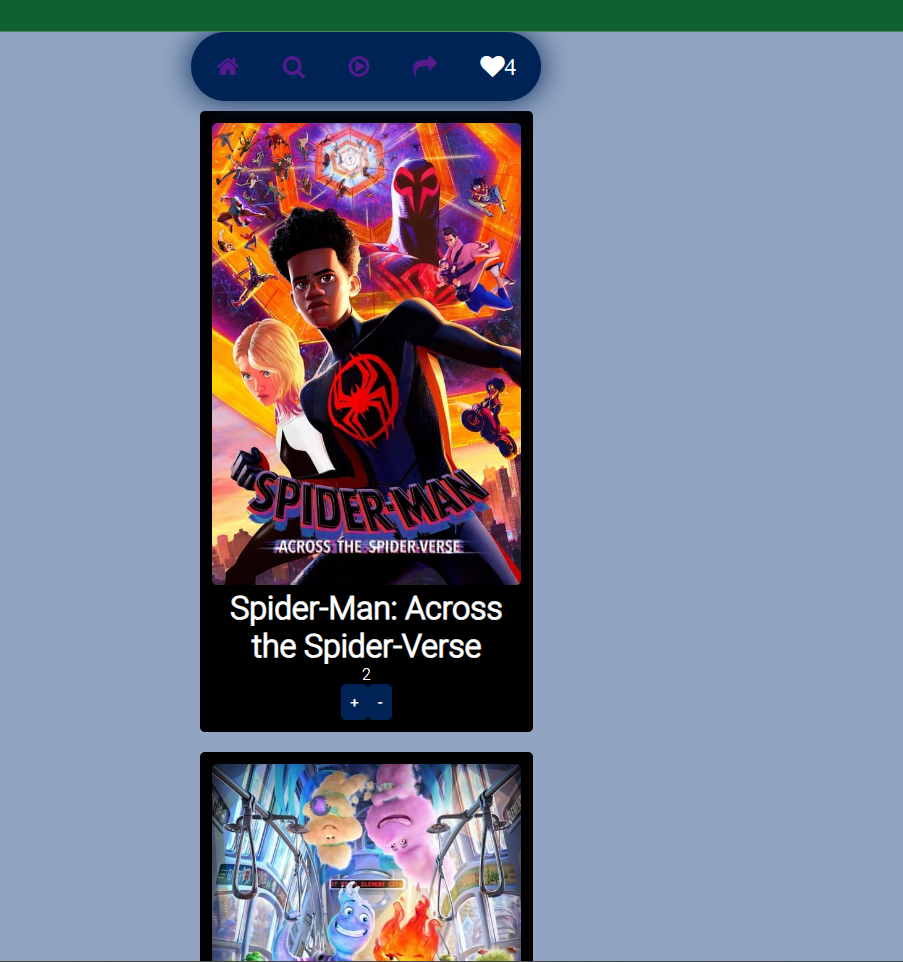
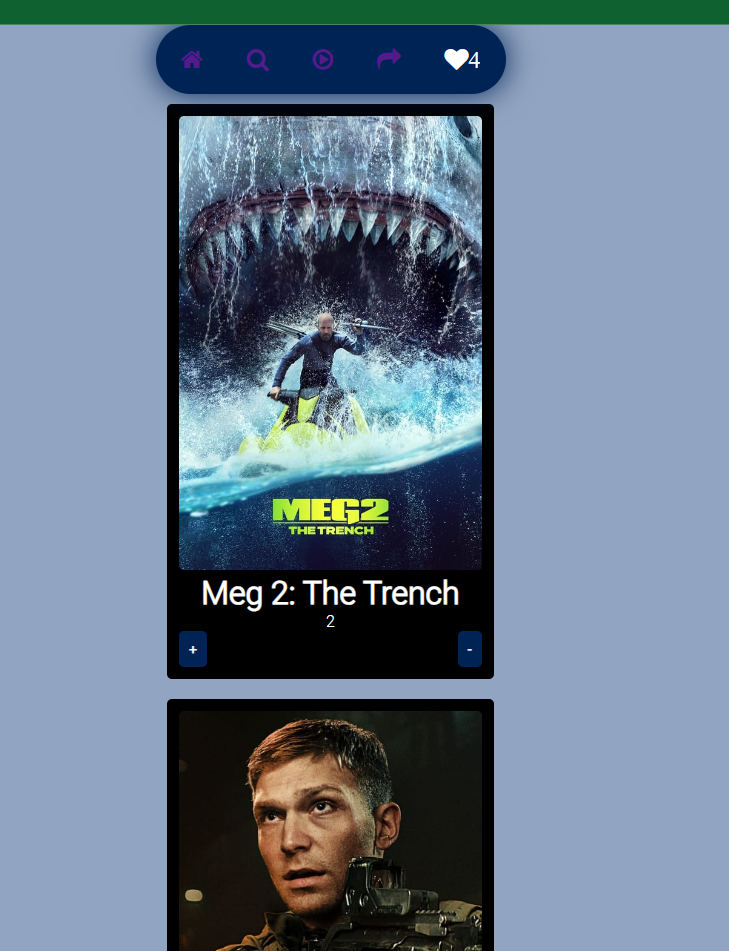
change some styling and remove some comments

diff --git a/day5-part2/src/Components/Nav/Nav.js b/day5-part2/src/Components/Nav/Nav.js
@@ -4,29 +4,29 @@ import { NavLink } from "react-router-dom";
 
 function Navigation() {
 var countFavourite=useSelector((state)=>state.AddFavSlice.AddedFav)
-var CartShow=useSelector((state)=>state.AddFavSlice.cart)
-    function clicked() {
-      console.log('clicked');
-      console.log(CartShow);
-      
-}
+// var CartShow=useSelector((state)=>state.AddFavSlice.cart)
+//     function clicked() {
+//       console.log('clicked');
+//       console.log(CartShow);
+
+// }
   return (
     <nav>
       <ul>
         <NavLink to='Home'>
-          <i className={`fa fa-home active`} onClick={clicked}></i>
+          <i className={`fa fa-home active`} ></i>
         </NavLink>
         <NavLink>
-          <i className={`fa fa-search active`}onClick={clicked}></i>
+          <i className={`fa fa-search active`}></i>
         </NavLink>
         <NavLink>
-          <i className={`fa fa-play-circle-o active`}onClick={clicked}></i>
+          <i className={`fa fa-play-circle-o active`}></i>
         </NavLink>
         <NavLink>
-          <i className={`fa fa-share active`}onClick={clicked}></i>
+          <i className={`fa fa-share active`}></i>
         </NavLink>
         <NavLink to='Favourite'>
-          <i className={`fa fa-heart active`} onClick={clicked}style={{color:"white"}}>{countFavourite} </i>
+          <i className={`fa fa-heart active`} style={{color:"white"}}>{countFavourite} </i>
         </NavLink>
       </ul>
     </nav>

diff --git a/day5-part2/src/Components/Pages/Home.js b/day5-part2/src/Components/Pages/Home.js
@@ -1,11 +1,7 @@
 import { useState, useEffect } from 'react';
 import axios from 'axios';
-
-
 import React from 'react';
 import Card from '../Card/Card'
-import Nav from '../Nav/Nav';
-
 
 function Home() {
   useEffect(() => {
@@ -22,9 +18,9 @@ function Home() {
     console.log(res.data.results);
     res.data.results.forEach((item) => {
       if (
-        item.title != 'No Hard Feelings' &&
-        item.title != 'Barbie' &&
-        item.title != 'Fast X' &&
+        item.title !== 'No Hard Feelings' &&
+        item.title !== 'Barbie' &&
+        item.title !== 'Fast X' &&
         item.title !== 'Resident Evil: Death Island' &&
         item.title !== 'Heart of Stone' &&
         item.title !== 'Fear the Night' &&
@@ -41,7 +37,6 @@ function Home() {
   }
   return (
     <>
-      {/* <Nav></Nav> */}
       <div className="FilmsContainer">
         {films
           ? films.map((item, index) => <Card key={index} data={[item,false]} />)

diff --git a/day5-part2/src/App.js b/day5-part2/src/App.js
@@ -1,15 +1,12 @@
-import { useState, useEffect } from 'react';
 import './App.css';
 import Favourite from './Components/Pages/Favourite';
 import { Route, Routes } from 'react-router-dom';
 import Home from './Components/Pages/Home';
-// import Nav from '../../day5/src/pages/Nav';
 import Nav from '../src/Components/Nav/Nav';
 import { Provider } from 'react-redux';
 import { Store } from './Redux/Store';
 
 function App() {
-  
 
   return (
     <>
@@ -18,7 +15,6 @@ function App() {
       <Routes>
         <Route index path='' element={<Home />} />
         <Route index path='Home' element={<Home />} />
-      
         <Route path='favourite' element={<Favourite />} />
         <Route path='*' element={<h1>Not Found</h1>} />
       </Routes>

diff --git a/day5-part2/src/Components/Card/Card.js b/day5-part2/src/Components/Card/Card.js
@@ -24,7 +24,6 @@ function Card(props, favpage) {
             src={`https://image.tmdb.org/t/p/w500/${props.data[0].poster_path}`}
             alt="not found"
           />
-          {/* <p>{props.data.id }</p> */}
         </div>
         <div className="info">
           <h1>{props.data[0].title}</h1>
@@ -49,7 +48,7 @@ function Card(props, favpage) {
         </button>
       )}
       {props.data[1] == true && (
-        <>
+        <div className='btns'>
           <button
             onClick={() => {
               addFavourite(props.data[0]);
@@ -64,7 +63,7 @@ function Card(props, favpage) {
           >
             -
           </button>
-        </>
+        </div>
       )}
       {/* {
       

diff --git a/day5-part2/src/Components/Pages/Favourite.js b/day5-part2/src/Components/Pages/Favourite.js
@@ -1,6 +1,3 @@
-import React, { useEffect } from 'react'
-// import {  addToFav } from '../ ../../Redux/Slices/AddFavSlice';
-import {  addToFav } from '../../Redux/Slices/AddFavSlice';
 import { useSelector } from 'react-redux';
 import Card from '../Card/Card';
 
@@ -8,7 +5,6 @@ function Favourite() {
   var CartShow=useSelector((state)=>state.AddFavSlice.cart)
   return (
     <>
-    {/* <Nav></Nav> */}
     <div className="FilmsContainer">
       {CartShow
         ? CartShow.map((item, index) => <Card key={index} data={[item,true]}/>)

diff --git a/day5-part2/src/Components/Card/Card.css b/day5-part2/src/Components/Card/Card.css
@@ -28,3 +28,7 @@ button {
   color: white;
   font-weight:bold ;
 }
+.btns{
+  display: flex;
+  justify-content: space-between;
+}
